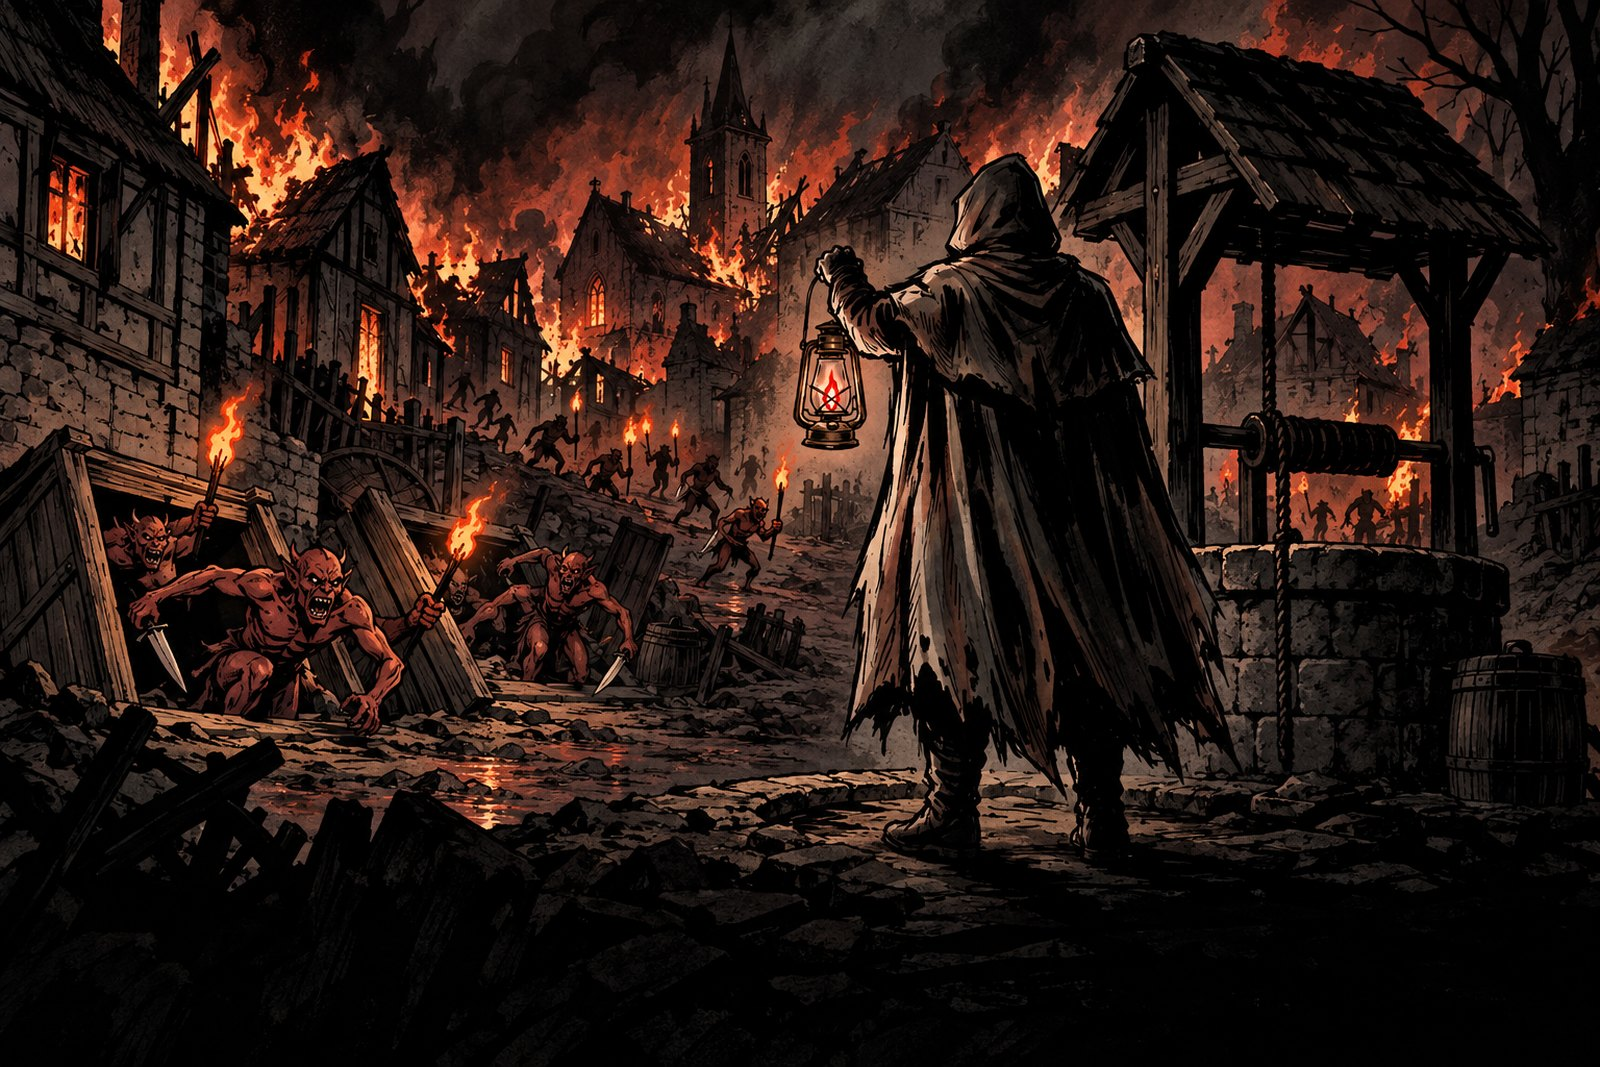
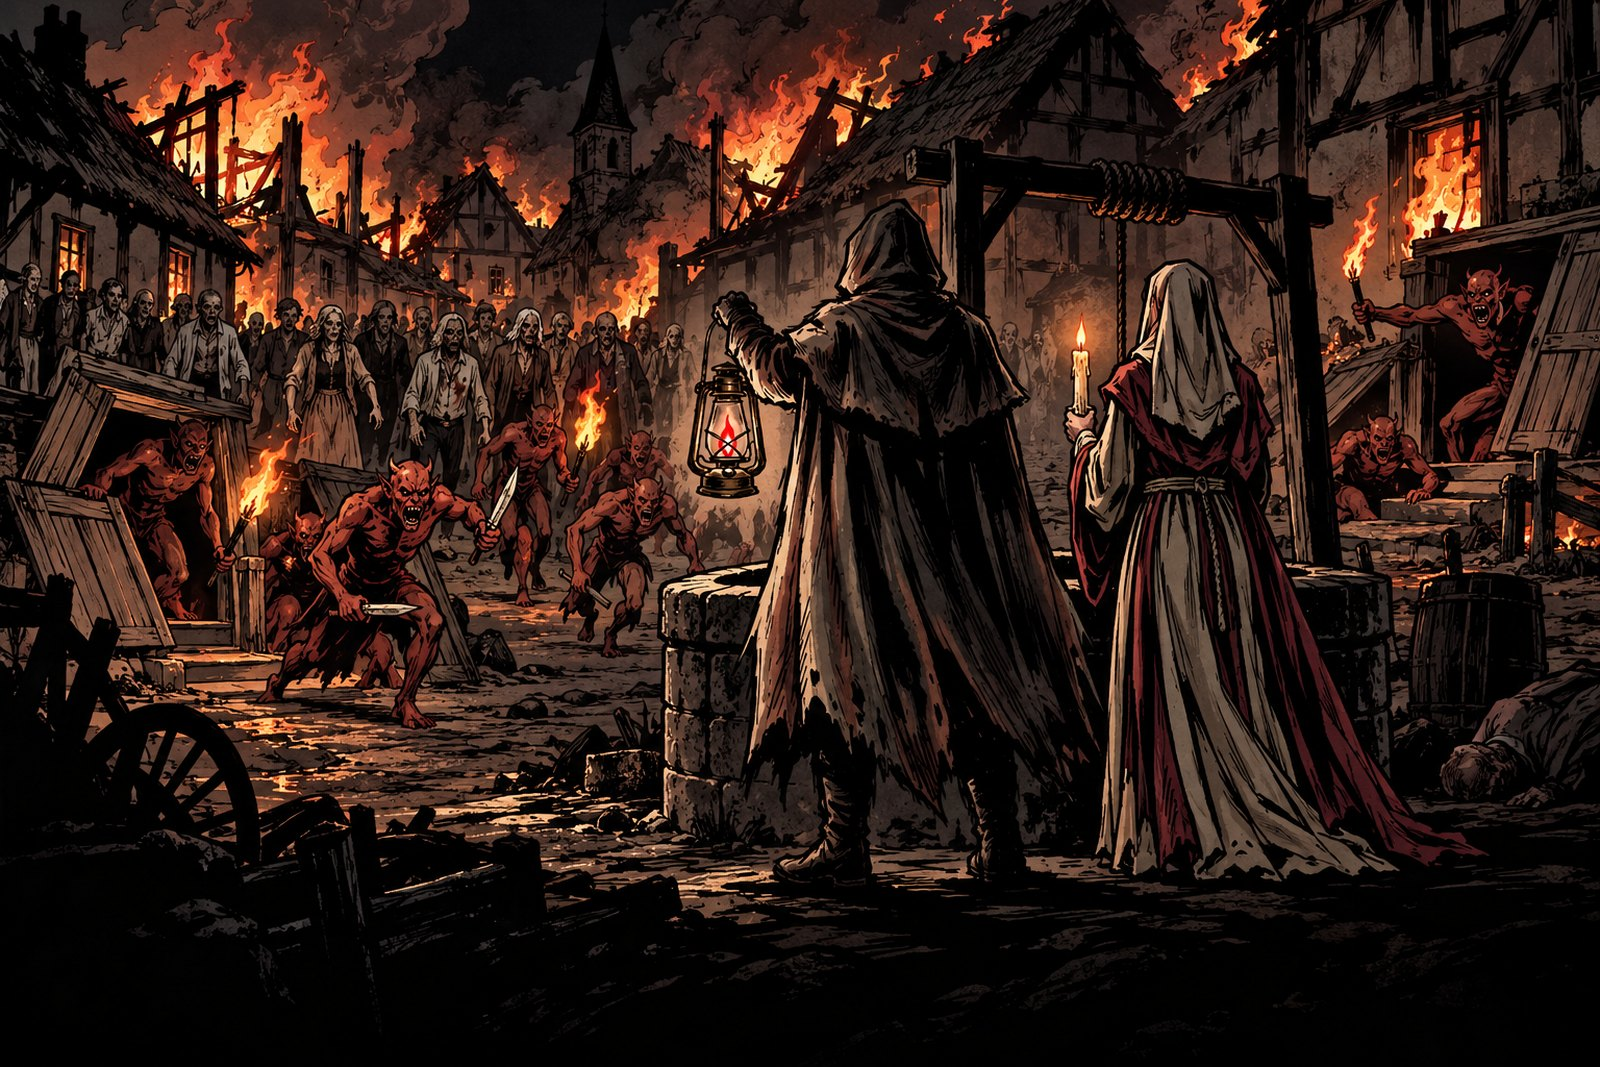
story: iteration 6 — death-timing, true-threat taunt, docks enemies
Blind verdict was 'yes with nits'; this answers every nit:

- KEEP-2: nine hundred years of keeping coasted Tristram's lamp after
  his death; tonight it gutters because the door below began to open
  (assault, not lapsed keeping — the inciting cause corrected).
- Travincal taunt rewritten a third time, now a true threat that
  depends on the metaphysics instead of breaking it: go home and keep
  your lamp through its last night.
- Docks-before names Zealots and the Drowned before their waves.
- Temple lesson: mana -> prayer (the fiction's currency).
- Battle objective glosses the sanctuary: where your lantern burns.
- Micro: Akara's role, necromancer's farewell, druid keeps the mother,
  Abominations on the stolen art, one true dream, acolytes run ahead,
  knives drawn by the shaman's song, boat unfound-yet, door ajar.
- tristram-before repainted: keeper and Akara at the well, Fallen,
  village dead.

Verified by a blind critic walk: all items FIXED, verdict yes.

diff --git a/hellward/story.py b/hellward/story.py
@@ -70,13 +70,16 @@ STORIES: dict[str, Story] = {s.key: s for s in (
     Story("tristram/before", 1, _page(
         "tristram-before",
         "A village burning at night; small red-skinned Fallen demons pour out of cellar doors with knives and torches. "
-        "In the foreground, seen from behind at the village well, the keeper holds up the lantern.",
-        "The lamp guttered at midnight, and now Tristram burns. Its keeper had stopped keeping it. The Fallen come up "
+        "In the foreground at the village well stand TWO figures side by side: the keeper, seen from behind, holding "
+        "up the lantern, and beside them Akara, a robed priestess holding a lit candle. Behind the demons walk the "
+        "village dead, gaunt humans still in their Sunday clothes.",
+        "The lamp guttered at midnight, and now Tristram burns. Below, the door had begun to open. The Fallen come up "
         "through the cellars with knives and "
-        "torches, red southern knives among them, and behind them walk the village dead, still in their Sunday clothes.",
-        "Akara finds you at the well. From her candle she lights your lantern — one flame of the lamp's own. "
+        "torches, red southern knives among them, drawn by a shaman's singing, and behind them walk the village dead, "
+        "still in their Sunday clothes.",
+        "Akara, a priestess, finds you at the well. From her candle she lights your lantern — one flame of the lamp's own. "
         "\"The old towers answer whoever keeps the lamp,\" she says. \"Wake what sleeps, and raise where nothing sleeps. "
-        "Keep it tonight, and keeping will feed it. It will show you true dreams. Ask me your questions at dawn.\"",
+        "Keep it tonight, and keeping will feed it. It will show you a true dream. Ask me your questions at dawn.\"",
         refs=("you",))),
     Story("tristram/after", 1, _page(
         "tristram-after",
@@ -153,13 +156,13 @@ STORIES: dict[str, Story] = {s.key: s for s in (
         "feet.",
         "Every night for nine hundred years the keeper came down here and cast his bones before the door, and every "
         "night they showed the lamp going out. Somewhere in those years he stopped keeping it, and died of it — but "
-        "the keeping would not let him go. He crowned himself, and began to wait — as if he waited on these steps "
-        "still.")),
+        "the keeping would not let him go. The lamp burned on without him, on all those years of keeping. He "
+        "crowned himself, and began to wait — as if he waited on these steps still.")),
     Story("hells_gate/before", 1, _page(
         "hells_gate-before",
-        "A colossal door in the rock, firmly shut except for a single hand's-width crack; hellfire blazing through that "
-        "thin crack with a vast horned shape inside the fire; at the threshold, the Bone Priest turns toward the viewer.",
-        "The door the saints built on stands open a hand's width. Through the gap you see fire, and the shape of "
+        "A colossal door in the rock, firmly shut except for one door-leaf ajar; hellfire blazing through the gap "
+        "with a vast horned shape filling it; at the threshold, the Bone Priest turns toward the viewer.",
+        "The door the saints built on stands ajar. Through the gap you see fire, and the shape of "
         "Azazel the Flayer.",
         "The Bone Priest waits at the threshold, crowned, and turns to face you. \"Nine hundred years I kept your "
         "saints' lamp,\" he says. \"I promised him this hour, as a master promises a hound. Tonight I let it go "
@@ -188,7 +191,7 @@ STORIES: dict[str, Story] = {s.key: s for s in (
              ("A ship with black sails left the coast last night with one passenger and no crew, sailing east.",
               "\"Go,\" said Akara. \"I will keep this one. Take its flame, and the old towers will know you — Kurast is "
               "old temple ground, and the saints' works sleep there too.\" You held the lantern to the lamp until its "
-              "flame stood straight, and went down to the sea, where a boat waited. The crossing took six nights."),
+              "flame stood straight, and went down to the sea to find a boat. The crossing took six nights."),
              ("you", "akara")),
     )),
     # -- Act II, The Drowned Temples ----------------------------------------------------------------
@@ -200,10 +203,10 @@ STORIES: dict[str, Story] = {s.key: s for s in (
         "wait on foot; a swamp city of gold "
         "roofs and rotting wooden piers rises in tiers.",
         "Kurast rises out of the swamp in tiers of gold and rotting wood. The harbour is empty of pilgrims. Along the "
-        "piers the Flayers are waiting, lordless since Azazel fell, and their shaman is already singing.",
+        "piers the Flayers are waiting, lordless since Azazel fell, and their shaman is already singing. Zealots hold the far end of the piers, and the drowned walk out of the low tide.",
         "A pale man in bone armour watches you land. \"I am a priest of Rathma,\" he says. \"Your enemy stole our "
         "art. Let me lend it back to you as the Bone Altar.\"",
-        "The Bone Priest's acolytes carry his words ahead of every host.",
+        "The Bone Priest's acolytes run ahead of every host, carrying his words.",
         refs=("necromancer",))),
     Story("docks/after", 2, _page(
         "docks-after",
@@ -266,6 +269,7 @@ STORIES: dict[str, Story] = {s.key: s for s in (
         "\"The mother lamp's.\"",
         "\"He is not putting it out. He is draining it, a little each night, so the city will not notice until it is "
         "dark.\"",
+        "He would go no further with you; the drowned dead were his order's business.",
         refs=("necromancer",))),
     Story("travincal/before", 2, _page(
         "travincal-before",
@@ -293,7 +297,7 @@ STORIES: dict[str, Story] = {s.key: s for s in (
         "A vast golden temple interior gone almost dark; the mother lamp hangs over the altar with its flame sunk to a "
         "last red ember, the great glass nearly black; beneath it the Bone Priest, grown huge, bones in his open hand, "
         "violet fire around him. No candles, no other light.",
-        "Under the mother lamp the Bone Priest waits, his new Abominations among the dead, and for the first time he "
+        "Under the mother lamp the Bone Priest waits, his new Abominations, raised on the stolen art, among the dead, and for the first time he "
         "will fight you himself.",
         "\"Every night since Tristram I have cast these bones,\" he says. \"They show me every stone of this "
         "temple, every demon in it, every tower you will build. They have never shown me you. So let me look.\"",
@@ -318,7 +322,7 @@ STORIES: dict[str, Story] = {s.key: s for s in (
              "the mother flame catches and rises gold, lighting the whole temple.",
              ("You held it up to the great lamp: Tristram's flame, lit from this one nine hundred years ago. The eldest "
               "druid poured oil from his wooden cask, pressed from the grove's oaks, and the mother flame caught, and "
-              "rose gold — and far away, every daughter lamp caught with her.",),
+              "rose gold — and far away, every daughter lamp caught with her. The eldest druid stayed to keep it.",),
              ("you", "druid", "mother_lamp")),
         Page("act2-end-4",
              "Dawn through tall cathedral windows; the red lamp of Tristram burns straight; Akara looks up at it from "

diff --git a/tools/llm_story.py b/tools/llm_story.py
@@ -189,7 +189,7 @@ def battle_beat(location: Location, *, first: bool = False) -> Beat:
                                if born[group.kind] == location.key))  # kinds walking here first
     body = [f"{len(waves)} waves, {bodies} bodies"]
     # What the client tells the player the fight is for (intro.gd title card, main.gd announce).
-    body.append("objective: Hold the sanctuary until the last wave breaks. (the client's title card)")
+    body.append("objective: Hold the sanctuary — where your lantern burns — until the last wave breaks. (the client's title card)")
     body += [_wave_mix(location, i) for i in range(len(waves))]
     if new:
         marked = [f"{MONSTERS[kind].name} (stand-in)" if not modelled(kind)

diff --git a/tests/test_llm_story.py b/tests/test_llm_story.py
@@ -134,7 +134,7 @@ def test_fights_state_the_client_objective():
     beats = {beat.key: beat for beat in walk.beats()}
     for location in ORDER:
         body = "\n".join(beats[f"{location}/battle"].body)
-        assert "objective: Hold the sanctuary until the last wave breaks." in body, location
+        assert "objective: Hold the sanctuary — where your lantern burns — until the last wave breaks." in body, location
 
 
 def test_fights_carry_the_music_and_the_boss_break_in():

diff --git a/docs/story-canon.md b/docs/story-canon.md
@@ -35,7 +35,9 @@ tonight it is yours. Akara can mind a lamp, but the old towers answer only the
 keeper. [KEEPER-2] The keeping holds its keeper past death: it held him long
 while he lived — nine hundred years alive — and when he stopped keeping, he
 died of it, but the keeping would not let him go. That is why he walks still,
-a skeleton who cannot lay the office down. [KEEP-1]
+a skeleton who cannot lay the office down. [KEEP-1] And nine hundred years of
+keeping kept Tristram's lamp burning after his death — until tonight, when
+the door below began to open and the flame guttered. [KEEP-2]
 
 **What each defence defends.** Every map ends at a sanctuary chapel, and the
 keeper sets the lantern down burning in it while working. The red orb is that
@@ -172,8 +174,9 @@ one step deeper. [DESCENT-1]
 - **Caves.** Gargoyles over lava; Akara stays to keep the lamp. After: the worn
   steps — every night for nine hundred years he cast his bones here, and
   somewhere he stopped keeping and began to wait. (Motive, shown not told.)
-- **Hell's Gate.** The door stands open a hand's width; Azazel waits in the
-  fire. The priest speaks his defiance. After (act ending): Azazel falls, the
+- **Hell's Gate.** The door stands ajar, one leaf open, Azazel's bulk
+  filling the gap; too narrow yet for him to come through. The priest speaks
+  his defiance. After (act ending): Azazel falls, the
   door shuts; the bones never showed the keeper; the priest goes east; the
   mother lamp is named; the keeper takes Tristram's flame east. (Promises
   closed: the door, the dare's first half. Opened: the mother lamp.)
@@ -313,7 +316,7 @@ already-fixed text and are marked [STALE] where they would have appeared.
     uniform objectives (genre; per-fight objectives would be a game change);
     lessons teach mechanics by design (drowned briefing); Abominations
     off-panel at the stair (words may exceed the panel).
-18. **Iterations 4–5 (337cd79, e3dc839):** docks-after bone repaint;
+18. **Iterations 4–6:** I4 (337cd79): docks-after bone repaint;
     caves-after crowned waiter; docks-before wingless Flayers; KEEP-1
     (died of stopping, keeping holds him); MOTH-1 (daughters catch with
     mother, Akara witnesses); TAUNT-1 bluff clause; CURSE-1 (prologue beam
@@ -322,9 +325,20 @@ already-fixed text and are marked [STALE] where they would have appeared.
     seniority; own door; jungle taunt silence-fix; died-of-stopping;
     inciting cause; Abominations among the dead; temple floor; black sails;
     crossing nights; a set of bones; "let me look"; Tristram kept by him
-    (travincal taunt). I5: 3 quote fixes + balance test; carrier narrowed;
+    (travincal taunt). I5 (e3dc839): 3 quote fixes + balance test; carrier narrowed;
 outage owns the doors; bribe reframed as seizure; open-eyes cut (Council
 duped, church fallen); renunciation cut; doors nearly shut; fallen hymns.
+I6: KEEP-2 (stored keeping coasts the lamp until tonight's assault);
+inciting cause corrected to the door's opening; travincal taunt rewritten
+as a true threat (third attempt); docks-before names Zealots + Drowned;
+"mana" → "prayer" (temple lesson); sanctuary glossed in the objective line;
+Akara given her role; necromancer farewelled; druid keeps the mother;
+Abominations raised on the stolen art; dream singular; acolytes run ahead;
+southern knives drawn by the shaman's song; boat unfound-yet ("to find");
+door ajar (panel rules); tristram-before repainted with Akara + dead.
+Accepted, no telling change: caves-after's narrated biography (standard
+game narration); prologue/lamp's anticipatory caption (ember pays off at
+once); temple Abominations off-panel (words may exceed the panel).
 19. **CLOSED by this canon:** orb fiction (ORB-1/LANT-1), wake-vs-build
     (TOWER-1/TOWER-2), priest's motive (PRIEST-1), why the bones never show
     the keeper (BONES-1), the lantern's survival (LANT-2), the chain

diff --git a/docs/story.md b/docs/story.md
@@ -64,5 +64,5 @@ gauge. `stills` re-renders the stills into `hellward/assets/story/` after visual
 | The Spider Forest | The old trees have taken your side. Stand close to them, then. One curse will find you all. |
 | The Flayer Jungle | My inquisitors do not chant. You will know their curse when the ground burns under your towers, and no chant before it. |
 | The Drowned City | The Hulks were drowned men once. They do not tire, and your gates are cloth to them. |
-| Travincal | Turn back, and when the mother dies I will take Tristram's little lamp for my own. No one would miss it. |
+| Travincal | Turn back, keeper. The mother's oil is all but spent — go home and keep your own lamp through its last night. |
 | The Temple of Light | Come, keeper. Let me look at you myself, while the temple still stands. |
